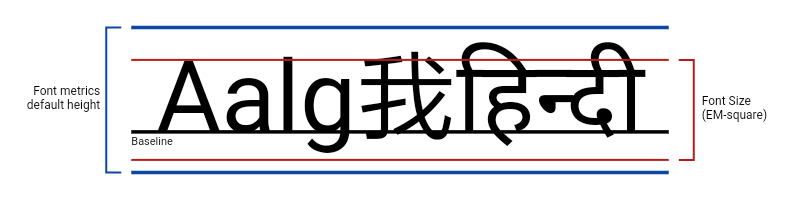
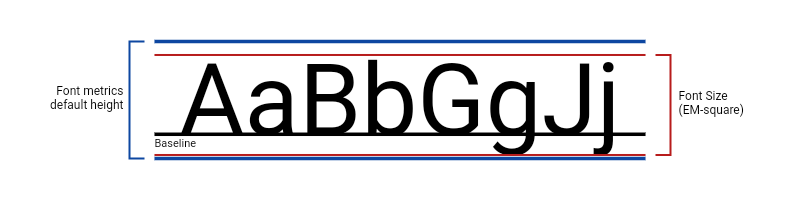
New diagram, update old ones

Changed region(s): [[0.0312, 0.12, 0.9688, 0.9]]

diff --git a/packages/diagrams/lib/src/text.dart b/packages/diagrams/lib/src/text.dart
@@ -20,7 +20,7 @@ class TextDiagram extends StatelessWidget implements DiagramMetadata {
   Widget build(BuildContext context) {
     final TextPainter textPainter = TextPainter(
       text: const TextSpan(
-        text:' Aalg我हिन्दी ',
+        text:' AaBbGgJj ',
         style: TextStyle(
           fontSize: 100,
           color: Colors.black,
@@ -181,6 +181,187 @@ class TextDiagramPainter extends CustomPainter {
   }
 }
 
+// Height values comparison.
+class TextHeightComparison extends TextDiagram implements DiagramMetadata {
+  const TextHeightComparison(String name) : super(name);
+
+  @override
+  Widget build(BuildContext context) {
+
+    double totalHeight = 70.0 + 10;
+    for (var h in <double>[1, 1, 1.15, 2, 3]) {
+      totalHeight += 70 * h + 30;
+    }
+
+    return Container(
+      width: 600,
+      height: totalHeight,
+      color: Colors.white,
+      child: Column(
+        children: <Widget>[
+          Container(
+            width: 600,
+            height: 70,
+            color: Color.fromARGB(255, 180, 180, 180),
+            child: Center(
+              child: Text(
+                'Roboto, fontSize:50',
+                style: TextStyle(fontSize: 30, fontWeight: FontWeight.w700),
+              ),
+            ),
+          ),
+          CustomPaint(
+            size: const Size(600, 70.0 + 30 + 10),
+            painter: TextHeightComparisonPainter('Axy', null, 0),
+          ),
+          CustomPaint(
+            size: const Size(600, 70.0 * 1.0 + 30),
+            painter: TextHeightComparisonPainter('Axy', 1, 1),
+          ),
+          CustomPaint(
+            size: const Size(600, 70.0 * 1.15 + 30),
+            painter: TextHeightComparisonPainter('Axy', 1.15, 2),
+          ),
+          CustomPaint(
+            size: const Size(600, 70.0 * 2.0 + 30),
+            painter: TextHeightComparisonPainter('Axy', 2, 3),
+          ),
+          CustomPaint(
+            size: const Size(600, 70.0 * 3.0 + 30),
+            painter: TextHeightComparisonPainter('Axy', 3, 4),
+          ),
+        ],
+      ),
+    );
+  }
+}
+
+class TextHeightComparisonPainter extends CustomPainter {
+
+  const TextHeightComparisonPainter(this.text, this.height, this.index);
+
+  final String text;
+  final double height;
+  final int index;
+
+  static const int largeIndex = 99;
+
+  @override
+  void paint(Canvas canvas, Size size) {
+    final Paint paint = Paint();
+    if (index % 2 == 0) {
+      paint.color = Color.fromARGB(255, 235, 235, 235);
+    } else {
+      paint.color = Color.fromARGB(255, 250, 250, 250);
+    }
+    canvas.drawRect(Rect.fromLTRB(0, 0, size.width, size.height), paint);
+
+    final TextPainter textPainter = TextPainter(
+      text: TextSpan(
+        text: 'height:$height, $text',
+        style: TextStyle(
+          fontSize: 50,
+          height: height,
+          color: Colors.black,
+        ),
+      ),
+      textAlign: TextAlign.left,
+      textDirection: TextDirection.ltr,
+    );
+    textPainter.layout();
+
+    final List<TextBox> boxes = textPainter.getBoxesForSelection(
+      const TextSelection(baseOffset: 0, extentOffset: largeIndex)
+    );
+
+    paint.color = Colors.black;
+    paint.strokeWidth = 3.5;
+    const double top = 0;
+    final double bottom = textPainter.height;
+    final double baseline = textPainter.computeDistanceToActualBaseline(TextBaseline.alphabetic);
+
+    final double ratio = 50.0 / textPainter.height;
+    final double emTop = baseline - (baseline - top) * ratio;
+    final double emBottom = baseline + (bottom - baseline) * ratio;
+
+    final double width = boxes[boxes.length - 1].right;
+    final Offset baseOffset = Offset((size.width - width) / 2 + 30, (size.height - textPainter.height) / 2);
+
+    textPainter.paint(canvas, baseOffset);
+
+    paint.color = Colors.red[900];
+    // Top
+    canvas.drawLine(
+      baseOffset,
+      baseOffset + Offset(width, top),
+      paint,
+    );
+
+    // Bottom
+    canvas.drawLine(
+      baseOffset + Offset(0, bottom),
+      baseOffset + Offset(width, bottom),
+      paint,
+    );
+
+    // Baseline
+    paint.color = Colors.black;
+    paint.strokeWidth = 2.5;
+    canvas.drawLine(
+      baseOffset + Offset(0, baseline),
+      baseOffset + Offset(width, baseline),
+      paint,
+    );
+
+    paint.strokeWidth = 2;
+    paint.style = PaintingStyle.stroke;
+
+    paint.color = Colors.blue[900];
+    Path path = Path();
+    path.moveTo(baseOffset.dx - 10, baseOffset.dy + top);
+    path.lineTo(baseOffset.dx - 25, baseOffset.dy + top);
+    path.lineTo(baseOffset.dx - 25, baseOffset.dy + bottom);
+    path.lineTo(baseOffset.dx - 10, baseOffset.dy + bottom);
+    canvas.drawPath(path, paint);
+
+    TextPainter label = TextPainter(
+      text: TextSpan(
+        text:'${bottom - top}px',
+        style: TextStyle(
+          fontSize: 20,
+          color: Colors.black,
+        ),
+      ),
+      textAlign: TextAlign.right,
+      textDirection: TextDirection.ltr,
+    );
+    label.layout();
+    label.paint(canvas, baseOffset + Offset(-25.0 - 80, (top + bottom) / 2 - 10));
+
+    paint.color = Colors.black;
+    // Baseline label
+    label = TextPainter(
+      text: const TextSpan(
+        text:'Baseline',
+        style: TextStyle(
+          fontSize: 9,
+          color: Colors.black,
+        ),
+      ),
+      textAlign: TextAlign.left,
+      textDirection: TextDirection.ltr,
+    );
+    label.layout();
+    label.paint(canvas, baseOffset + Offset(0, baseline + 1));
+  }
+
+  @override
+  bool shouldRepaint(CustomPainter oldDelegate) {
+    final TextHeightComparisonPainter diagramPainter = oldDelegate;
+    return text != diagramPainter.text || height != diagramPainter.height;
+  }
+}
+
 class TextDiagramStep extends DiagramStep<TextDiagram> {
   TextDiagramStep(DiagramController controller) : super(controller);
 
@@ -190,6 +371,7 @@ class TextDiagramStep extends DiagramStep<TextDiagram> {
   @override
   Future<List<TextDiagram>> get diagrams async => <TextDiagram>[
         const TextDiagram('text_height_diagram'),
+        const TextHeightComparison('text_height_comparison_diagram'),
       ];
 
   @override
